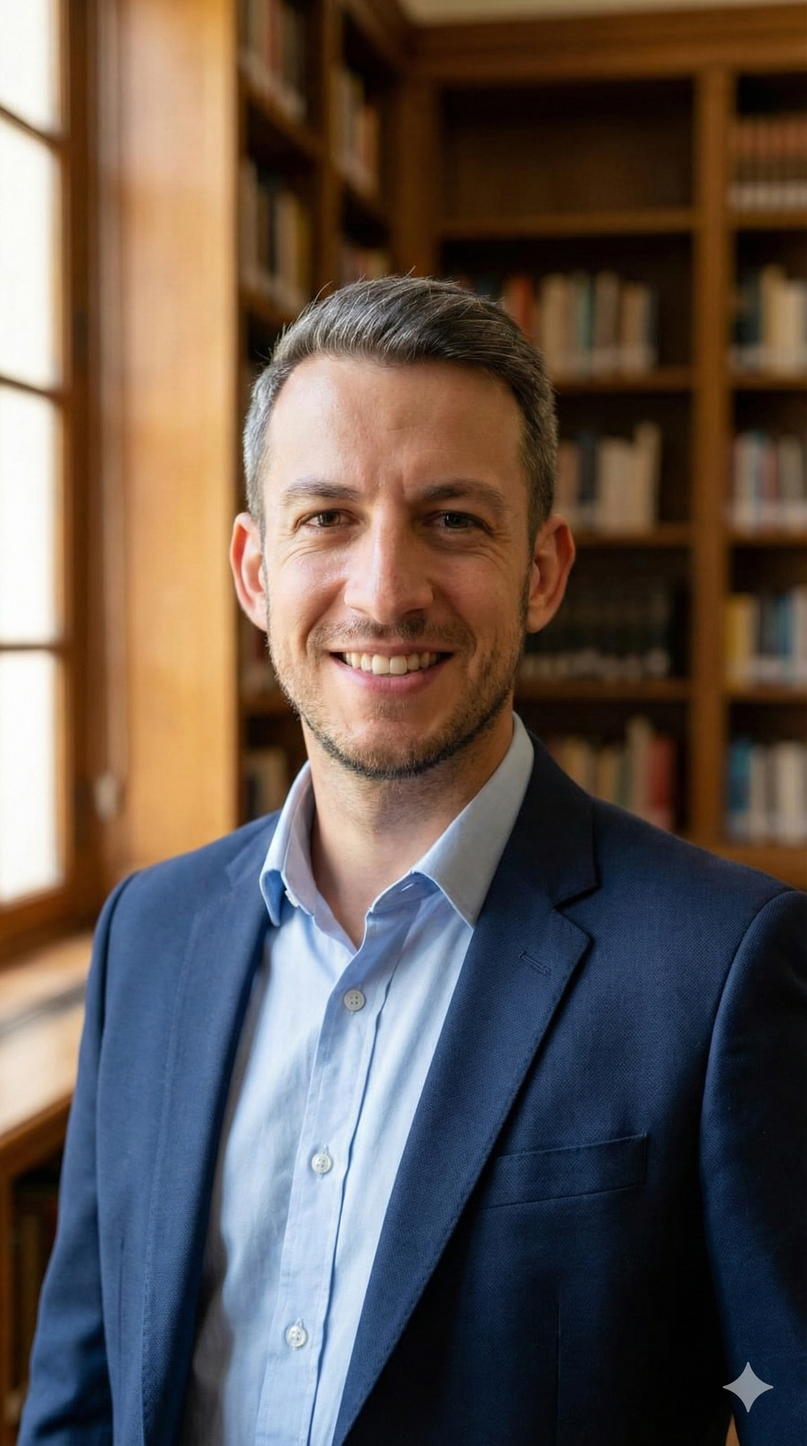
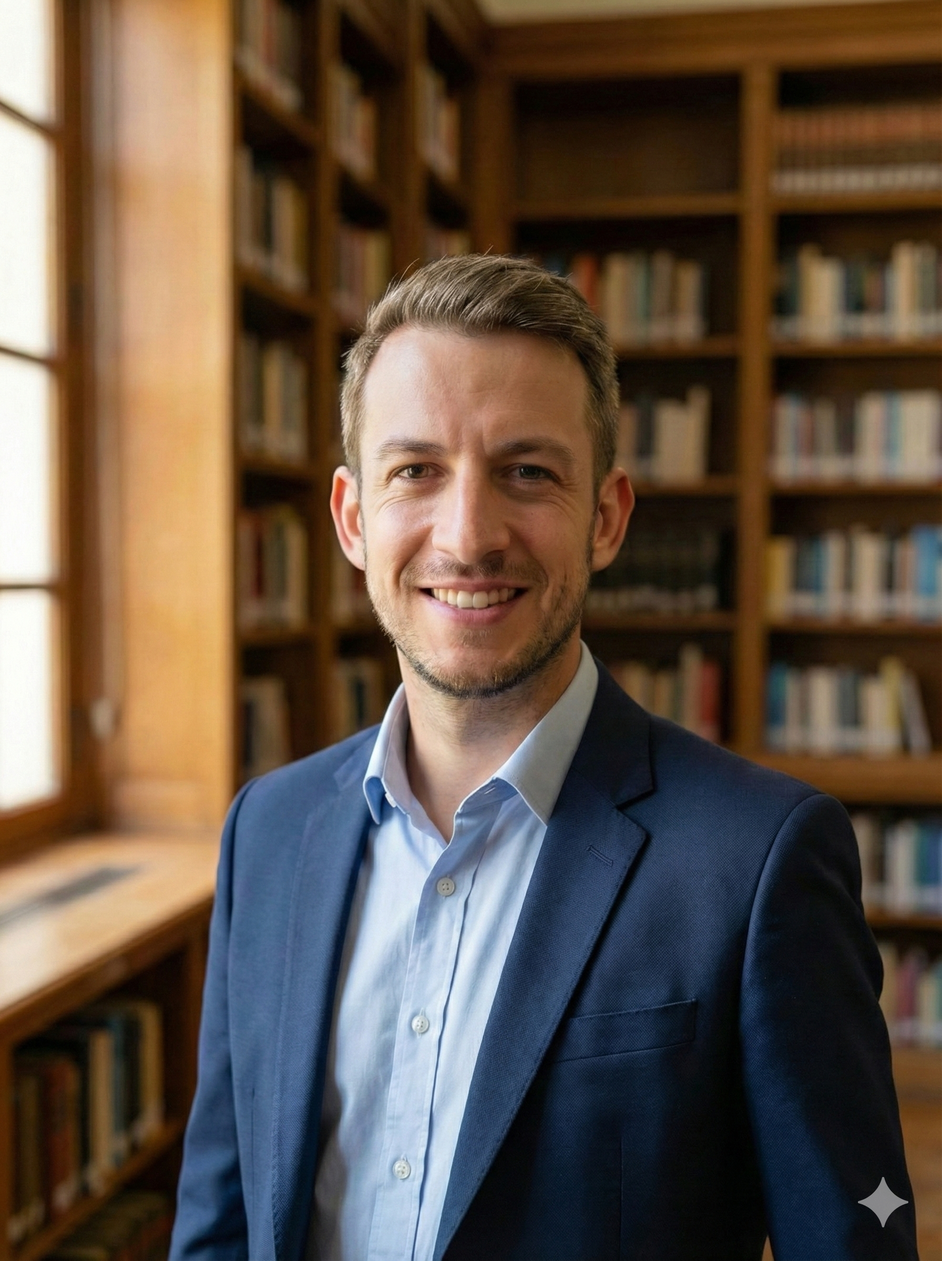
update images and fonts

diff --git a/app/layout.tsx b/app/layout.tsx
@@ -1,5 +1,6 @@
 import type { Metadata } from "next";
 import { Inter, Poppins, Playfair_Display, Caveat } from "next/font/google";
+import localFont from "next/font/local";
 import "./globals.css";
 import Providers from "@/components/providers";
 import SmoothScroll from "@/components/smooth-scroll";
@@ -27,6 +28,11 @@ const playfair = Playfair_Display({
 const caveat = Caveat({
   variable: "--font-caveat",
   subsets: ["latin"],
+});
+
+const holiday = localFont({
+  src: "./fonts/HolidayFree.otf",
+  variable: "--font-holiday",
 });
 
 export const metadata: Metadata = {
@@ -71,7 +77,7 @@ export default function RootLayout({
   return (
     <html lang="es" suppressHydrationWarning>
       <body
-        className={`${inter.variable} ${poppins.variable} ${playfair.variable} ${caveat.variable} antialiased bg-warm-white dark:bg-[#0F172A]`}
+        className={`${inter.variable} ${poppins.variable} ${playfair.variable} ${caveat.variable} ${holiday.variable} antialiased bg-warm-white dark:bg-[#0F172A]`}
       >
         <Providers>
           <SmoothScroll />

diff --git a/tailwind.config.ts b/tailwind.config.ts
@@ -30,6 +30,7 @@ const config: Config = {
                 sans: ["var(--font-inter)", "sans-serif"],
                 serif: ["var(--font-playfair)", "Playfair Display", "Georgia", "serif"],
                 handwritten: ["var(--font-caveat)", "cursive"],
+                signature: ["var(--font-holiday)", "cursive"],
             },
         },
     },

diff --git a/components/ui/my-story-section.tsx b/components/ui/my-story-section.tsx
@@ -3,7 +3,7 @@
 import { motion } from "framer-motion";
 import Image from "next/image";
 import siteContent from "@/data/site-content.json";
-import myStoryImg from "@/public/images/queroBlackandWhite.webp";
+import myStoryImg from "@/public/images/quero-w.webp";
 
 export default function MyStorySection() {
   const { myStory } = siteContent;
